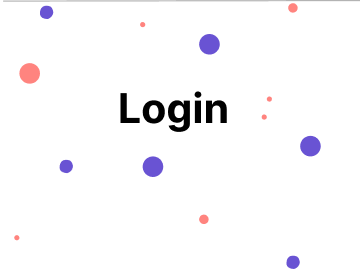
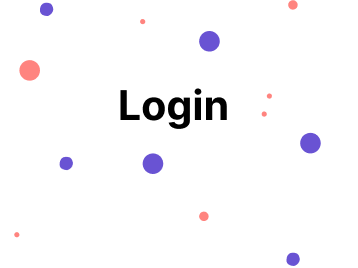
Segunda versão Login

diff --git a/SecurityBank/site/public/css/login.css b/SecurityBank/site/public/css/login.css
@@ -12,11 +12,8 @@ input {
 }
 
 .container {
-    height: 130vh;
-    width: 100%;
-    background-image:url(../Imagem/Login.jpg);
-    background-size: cover;
-    background-position: 100%;
+    height: 100vh;
+    width: 100%;    
     display: flex;
     justify-content: center;
     flex-direction: column;
@@ -25,7 +22,7 @@ input {
 .card {
     display: flex;
     background-color: whitesmoke;
-    width: 30vw;
+    width: 25vw;
     height: 65vh;
     flex-direction: column;
     align-self: center;
@@ -33,8 +30,8 @@ input {
     border-radius: 1.5rem;
     box-shadow: 0.1rem 0px 1rem 0.1rem rgba(0, 0, 0, 0.514);    
     position: relative;
-    bottom: 5rem;
-    right: 17rem;
+    top: 5rem;
+    right: 20rem;
     z-index: 999;
 }
 
@@ -47,7 +44,7 @@ input {
     border-radius: 10px;
     border-style: none;
     position: relative;
-    left: 2.5rem;
+    left: 0.5rem;
     top: 0.5rem;
 }
 
@@ -63,7 +60,7 @@ input {
 
 .titulo{
     position: relative;
-    left: 7rem;
+    left: 5rem;
     top: 1rem;
     margin-bottom: 5rem;
     font-size: 1.5rem;    
@@ -74,26 +71,21 @@ input {
     transition: 0.20s ease-in-out;
 }
 
-.ondasFundo{
-    background-image: url(../assets/ondas.png);
+.ondasFundo img{
     background-size: cover;
     width: 98.7vw;
-    height: 90vh;
-    position: relative;
-    bottom: 5rem;
+    height: 15rem;    
 }
 
-.tituloLogin{
-    background-image: url(../assets/bolinhaLogin.png);
+.tituloLogin img{  
     background-size: cover;
     background-position: 100%;
     width: 20vw;
-    height: 131vh;
+    height: 13rem;
     position: relative;
-    top: 3rem;
-    left: 60rem;
-}
-  
+    top: 12rem;
+    left: 63rem;
+}  
   
 /* Inicio mensagens */
 .loading-div {

diff --git a/SecurityBank/site/public/login.html b/SecurityBank/site/public/login.html
@@ -45,7 +45,7 @@
         </div>
         <div class="pagina">
             <div class="container">
-                <div class="tituloLogin"></div>
+                <div class="tituloLogin"><img src="../public/assets/bolinhaLogin.png" alt="Login"></div>
                 <div class="card">
                     <form>
                         <h1 class="titulo">Faça Seu Login</h1>
@@ -60,7 +60,7 @@
                     </form>
                     <button class="buttonlogin" onclick="entrar()">Login</button>
                 </div>
-                <div class="ondasFundo"></div>
+                <div class="ondasFundo"><img src="../public/assets/ondasLogin.png" alt="Ondas"></div>
                 <!--footer inicio-->                
                 <!--footer fim-->
             </div>
